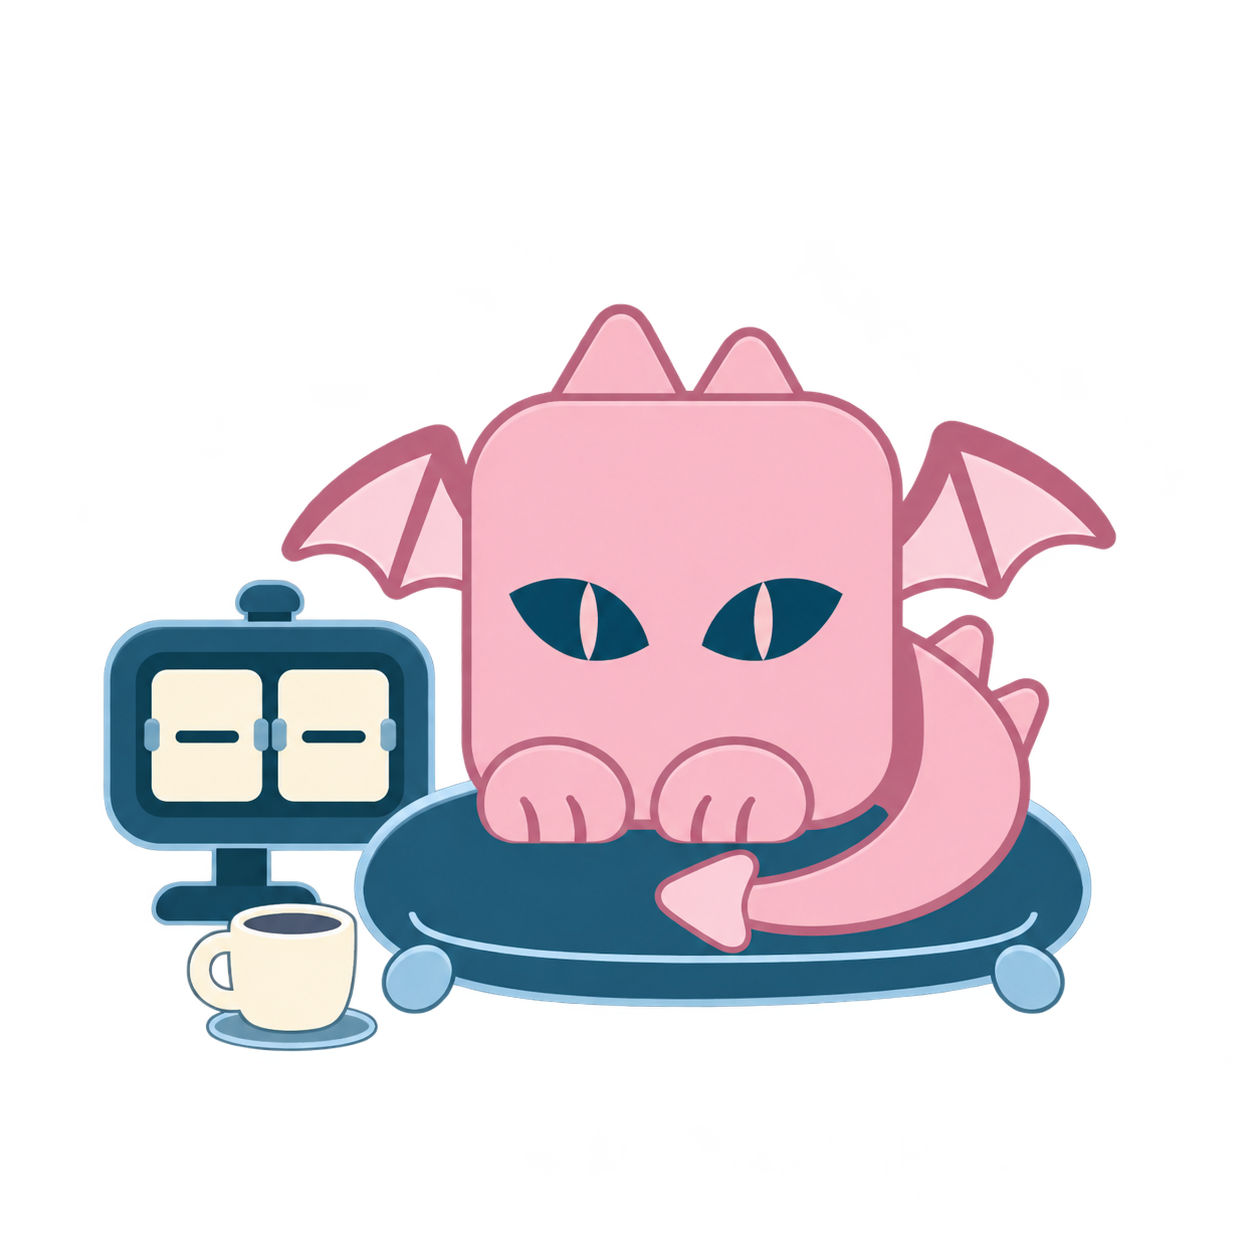
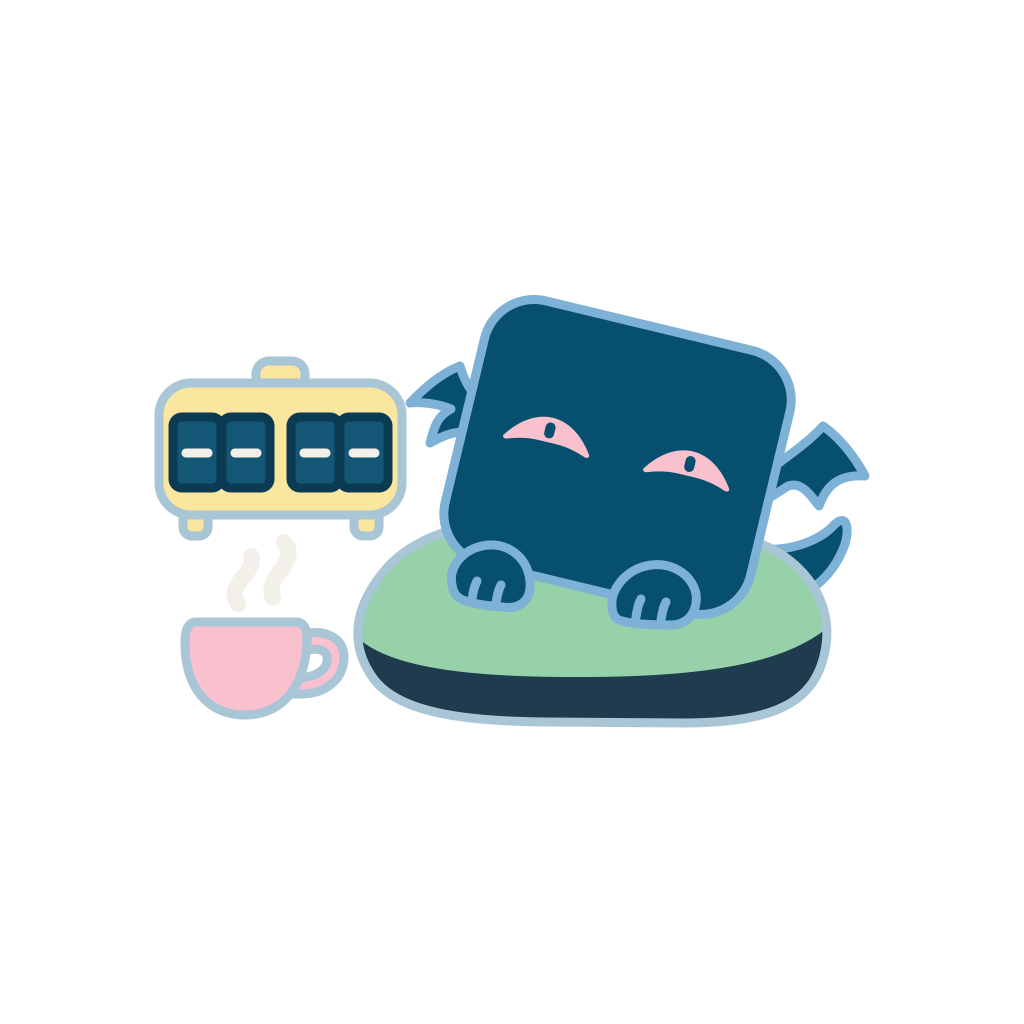
feat(T2): подключить утверждённые иллюстрации пустых состояний

diff --git a/src/app/(cabinet)/page.tsx b/src/app/(cabinet)/page.tsx
@@ -1,5 +1,5 @@
 import Link from "next/link";
-import Image from "next/image";
+import { EmptyIllustration } from "@/components/empty-illustration";
 import { redirect } from "next/navigation";
 import { Bell, ChevronRight, Navigation } from "lucide-react";
 import { requireUser } from "@/server/auth/guards";
@@ -150,24 +150,7 @@ export default async function TodayPage() {
         ) : null}
         {lessons.length === 0 && (
           <div className="flex flex-col items-center gap-1 border-t border-board-line pb-2 pt-2 text-center">
-            <div className="size-28">
-              <Image
-                src="/brand/empty-today-light.webp"
-                alt=""
-                width={112}
-                height={112}
-                className="only-light"
-                unoptimized
-              />
-              <Image
-                src="/brand/empty-today-dark.webp"
-                alt=""
-                width={112}
-                height={112}
-                className="only-dark"
-                unoptimized
-              />
-            </div>
+            <EmptyIllustration scene="today" />
             <p className="m-0 font-board text-2xl font-extrabold uppercase">
               Сегодня пар нет
             </p>
@@ -266,9 +249,12 @@ export default async function TodayPage() {
               })}
             </ul>
           ) : (
-            <p className="text-[14px] text-text-muted">
-              Дедлайнов на неделе нет. Можно выдохнуть.
-            </p>
+            <div className="flex items-center gap-2">
+              <EmptyIllustration scene="deadlines" />
+              <p className="text-[14px] text-text-muted">
+                Дедлайнов на неделе нет. Можно выдохнуть.
+              </p>
+            </div>
           )}
         </section>
 

diff --git a/src/app/(cabinet)/feed/page.tsx b/src/app/(cabinet)/feed/page.tsx
@@ -1,4 +1,5 @@
 import Link from "next/link";
+import { EmptyIllustration } from "@/components/empty-illustration";
 import { ChevronLeft } from "lucide-react";
 import { requireUser } from "@/server/auth/guards";
 import { db } from "@/server/db";
@@ -90,7 +91,8 @@ export default async function FeedPage({
 }) {
   const user = await requireUser();
   const sp = await searchParams;
-  const f: FilterKey = sp.f && sp.f in FILTERS ? (sp.f as FilterKey) : "all";
+  const f: FilterKey =
+    sp.f && Object.hasOwn(FILTERS, sp.f) ? (sp.f as FilterKey) : "all";
   const rows = await load(user.id, FILTERS[f].kinds);
   const fresh = rows.filter((r) => !r.readAt);
   const earlier = rows.filter((r) => r.readAt);
@@ -193,9 +195,16 @@ export default async function FeedPage({
             })}
           </ul>
         ) : (
-          <p className="border-t border-board-line px-0.5 py-4 text-[15px]">
-            Новых уведомлений нет. Если что-то перенесут — напишем первыми.
-          </p>
+          <div className="flex items-center gap-2 border-t border-board-line px-0.5 py-2">
+            <EmptyIllustration
+              scene={f === "deadlines" ? "deadlines" : "notifications"}
+            />
+            <p className="text-[15px]">
+              {f === "deadlines"
+                ? "Новых уведомлений о дедлайнах нет."
+                : "Новых уведомлений нет. Если что-то перенесут — напишем первыми."}
+            </p>
+          </div>
         )}
       </section>
 

diff --git a/src/app/(cabinet)/requests/page.tsx b/src/app/(cabinet)/requests/page.tsx
@@ -1,4 +1,5 @@
 import Link from "next/link";
+import { EmptyIllustration } from "@/components/empty-illustration";
 import { redirect } from "next/navigation";
 import { requireUser } from "@/server/auth/guards";
 import { db } from "@/server/db";
@@ -143,10 +144,12 @@ export default async function RequestsPage() {
           ),
         )}
         {!active.length ? (
-          <p className="m-0 text-[15px]">
-            Заявок пока нет. Справку закажешь за минуту — и будешь видеть, где
-            она едет.
-          </p>
+          <div className="flex items-center gap-2">
+            <EmptyIllustration scene="requests" />
+            <p className="m-0 text-[15px]">
+              Заявок пока нет. Можно заказать справку и следить за её статусом.
+            </p>
+          </div>
         ) : null}
       </section>
 

diff --git a/src/components/empty-illustration.tsx b/src/components/empty-illustration.tsx
@@ -1,0 +1,22 @@
+import Image from "next/image";
+
+type Scene = "today" | "requests" | "notifications" | "deadlines";
+
+/** Декоративная иллюстрация: смысл пустого состояния задаёт текст рядом. */
+export function EmptyIllustration({ scene }: { scene: Scene }) {
+  return (
+    <div aria-hidden="true" className="size-28 shrink-0">
+      {(["light", "dark"] as const).map((theme) => (
+        <Image
+          key={theme}
+          src={`/brand/empty-${scene}-${theme}.webp`}
+          alt=""
+          width={112}
+          height={112}
+          className={`only-${theme}`}
+          unoptimized
+        />
+      ))}
+    </div>
+  );
+}

diff --git a/docs/brand/README.md b/docs/brand/README.md
@@ -24,16 +24,18 @@
 
 | Файл | Что | Кто | Статус |
 | --- | --- | --- | --- |
-| [Светлая](empty-today-light.png), [тёмная](empty-today-dark.png) | Пустое состояние «Сегодня пар нет» | ChatGPT | готово, версии WebP в `public/brand/` |
-| `empty-requests-light.png`, `empty-requests-dark.png` | «Заявок пока нет» | ChatGPT | нужно, [промпт](empty-states-prompts.md) |
-| `empty-notifications-light.png`, `empty-notifications-dark.png` | «Новых уведомлений нет» | ChatGPT | нужно, [промпт](empty-states-prompts.md) |
-| `empty-deadlines-light.png`, `empty-deadlines-dark.png` | «Дедлайнов на неделе нет» | ChatGPT | нужно, [промпт](empty-states-prompts.md) |
+| [Светлая](empty-today-light.png), [тёмная](empty-today-dark.png) | Пустое состояние «Сегодня пар нет» | ChatGPT | утверждено, WebP в `public/brand/` |
+| [Светлая](empty-requests-light.png), [тёмная](empty-requests-dark.png) | «Заявок пока нет» | ChatGPT | утверждено, WebP в `public/brand/` |
+| [Светлая](empty-notifications-light.png), [тёмная](empty-notifications-dark.png) | «Новых уведомлений нет» | ChatGPT | утверждено, WebP в `public/brand/` |
+| [Светлая](empty-deadlines-light.png), [тёмная](empty-deadlines-dark.png) | «Дедлайнов на неделе нет» | ChatGPT | утверждено, WebP в `public/brand/` |
 | `error-sync-light.png`, `error-sync-dark.png` | «Расписание не обновилось» | ChatGPT | нужно, [промпт](empty-states-prompts.md) |
 | `avatar-danila.png`, `avatar-ksenia.png`, `avatar-marat.png`, `avatar-irina.png` | Аватары-заглушки для 4 тестовых аккаунтов (не фото людей) | ChatGPT | нужно, [промпт](empty-states-prompts.md#аватары-заглушки-4-тестовых-аккаунта) |
 
 Архив: [`vtu-virea-logo.png`](vtu-virea-logo.png) и [`vtu-virea-gorynych-logo.png`](vtu-virea-gorynych-logo.png) — первые логотипы от ChatGPT (08.11), в интерфейсе не используются.
 
 ## Промпты и выбранные варианты
+
+- 2026-11-20: подключены утверждённые в чате сцены. Выходной — Деканыч на подушке с добрым прищуром. Заявки — папка по центру и четыре точки внизу. Уведомления — сон, луна и колокольчик, хвост убран в обеих темах. Дедлайны — Деканыч слева с поднятой лапкой, флажок и календарь справа. [Запись журнала](../ai-log/entries/2026-11-20_0138_chatgpt_approved-empty-states.md).
 
 - 2026-11-14 — Деканыч отдыхает на подушке рядом с табло и чашкой. Светлая версия с синим телом, тёмная повторяет композицию с розовым телом по актуальным цветам. Выбрана одна композиция для двух тем. [Запись журнала](../ai-log/entries/2026-11-14_2328_chatgpt_empty-today.md).
 

diff --git a/docs/ai-log/entries/2026-11-20_0138_chatgpt_approved-empty-states.md b/docs/ai-log/entries/2026-11-20_0138_chatgpt_approved-empty-states.md
@@ -1,0 +1,31 @@
+# Четыре иллюстрации пустых состояний подключены к кабинету
+
+- **Дата и время:** 2026-11-20 01:38 МСК
+- **Инструмент:** ChatGPT (иллюстрации), Codex (Алёна, подключение)
+- **Кто ставил задачу:** Алёна
+- **Этап плана:** 6 Проверка
+- **Требования PRD:** T2
+
+## Задача
+
+> «Сохраняй эти и предыдущие для экрана уведомлений».
+
+Подключить утверждённые светлые и тёмные рисунки для дня без пар, заявок, уведомлений и дедлайнов.
+
+## Что сделал ИИ
+
+- Сохранил прозрачные PNG 1024 × 1024 в [исходниках бренда](../../brand/README.md). Для сайта экспортировал облегчённые WebP.
+- Пара для заявок повторяет геометрию выбранного второго рисунка: папка по центру, четыре точки внизу. Светлый файл восстановлен из утверждённого тёмного перекрашиванием в исходную светлую палитру.
+- Разместил картинки в пустых состояниях «Сегодня», «Заявок» и ленты. В фильтре дедлайнов иллюстрация относится к отсутствию новых уведомлений, а в «Сегодня» — к отсутствию дедлайнов недели.
+
+## Что проверил и поправил человек
+
+Алёна выбрала варианты, попросила смягчить глаза и убрать хвост у спящего Деканыча. Она подтвердила обе пары для экрана уведомлений.
+
+## Ошибки ИИ
+
+- ИИ один раз выбрал не тот вариант заявки. Алёна уточнила номер из финальной тройки. В репозиторий вошла пара с маршрутом под папкой.
+
+## Скриншоты
+
+После выкладки снять пустые состояния с телефона в обеих темах.

diff --git a/docs/status.md b/docs/status.md
@@ -44,7 +44,7 @@
 | [x] | Макеты: Учёба, уведомления, тёмная тема, кабинет сотрудника | G1–G3, N1, E1, E2, NF3 | Алёна, черновик — Claude Code | стиль табло: 3 экрана на 360 px и 2 на десктопе, тот же холст |
 | [x] | Макеты: староста, настройки уведомлений, пустые состояния | S6, N4, T2 | Алёна, черновик — Claude Code | стиль табло, тот же холст; места под иллюстрации ChatGPT отмечены |
 | [x] | Выбрать цвет табло для светлой темы: синий или песочный | NF1 | Алёна | песочный, главные кнопки розовые (решение 11.11); токены — в `design-system.md` |
-| [ ] | Иллюстрации пустых состояний, аватары-заглушки | T2 | ChatGPT | «Сегодня пар нет» готово в двух темах. Остальные сцены и аватары описаны в [промптах](brand/empty-states-prompts.md) |
+| [ ] | Иллюстрации пустых состояний, аватары-заглушки | T2 | ChatGPT | Четыре утверждённые сцены подключены в обеих темах. Остались ошибка синхронизации и аватары по [промптам](brand/empty-states-prompts.md) |
 
 ### Этап 2a: модель данных и проверки (до 12.11)
 
